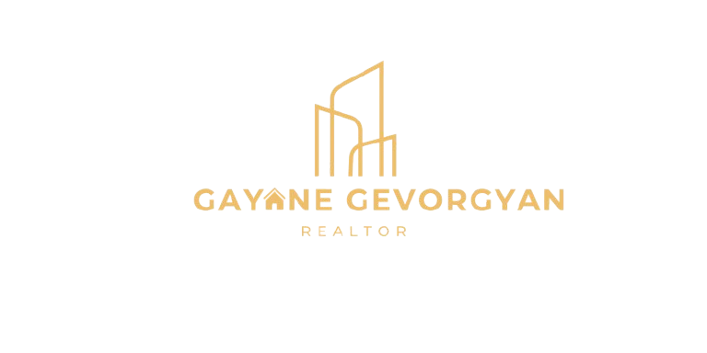
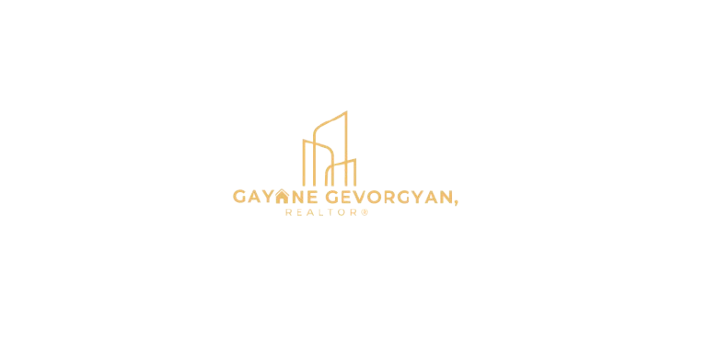
new changes

Changed region(s): [[0.2489, 0.1558, 0.8091, 0.6856]]

diff --git a/src/components/Hero.tsx b/src/components/Hero.tsx
@@ -55,13 +55,13 @@ const Hero = () => {
 
       {/* Absolute Logo perfectly fitted in the Sky gap over the roof */}
       <div
-        className="absolute top-[70px] md:top-[35px] left-0 right-14 z-40 flex justify-center pointer-events-none px-6"
+        className="absolute top-0 left-0 right-0 z-40 flex justify-center items-start pointer-events-none px-6 pt-4"
         style={{ transform: `translateY(${scrollY * 0.1}px)` }}
       >
         <img
           src={bkgImage}
           alt="Gayane Gevorgyan Realtor Logo"
-          className="w-48 md:w-[32rem] lg:w-[42rem] object-contain animate-fade-in-up"
+          className="w-60 md:w-[34rem] lg:w-[48rem] max-h-[36vh] object-contain object-top animate-fade-in-up"
           style={{ filter: "brightness(0) saturate(100%) invert(21%) sepia(0%) saturate(2619%) hue-rotate(232deg) brightness(98%) contrast(83%)" }}
         />
       </div>

diff --git a/src/components/About.tsx b/src/components/About.tsx
@@ -1,6 +1,5 @@
 import aboutImg from "@/assets/about1.png";
 import aboutImg2 from "@/assets/about2.png";
-import aboutImg3 from "@/assets/about3.png";
 import { Globe, Heart, Award, BookOpen } from "lucide-react";
 import { Reveal } from "./Reveal";
 import { Link } from "react-router-dom";
@@ -35,11 +34,6 @@ const About = () => {
                   src={aboutImg2}
                   alt="Gayane Gevorgyan, Maryland Realtor"
                   className="absolute inset-0 w-full h-full object-cover object-top animate-photo-b"
-                />
-                <img
-                  src={aboutImg3}
-                  alt="Gayane Gevorgyan, Maryland Realtor"
-                  className="absolute inset-0 w-full h-full object-cover object-top animate-photo-c"
                 />
               </div>
             </div>

diff --git a/src/components/Footer.tsx b/src/components/Footer.tsx
@@ -219,7 +219,7 @@ const Footer = () => {
               <img
                 src={kwLogo}
                 alt="Keller Williams"
-                className="h-14 w-auto object-contain"
+                className="h-28 w-auto object-contain"
                 style={{ filter: "brightness(0)" }}
               />
             </div>
